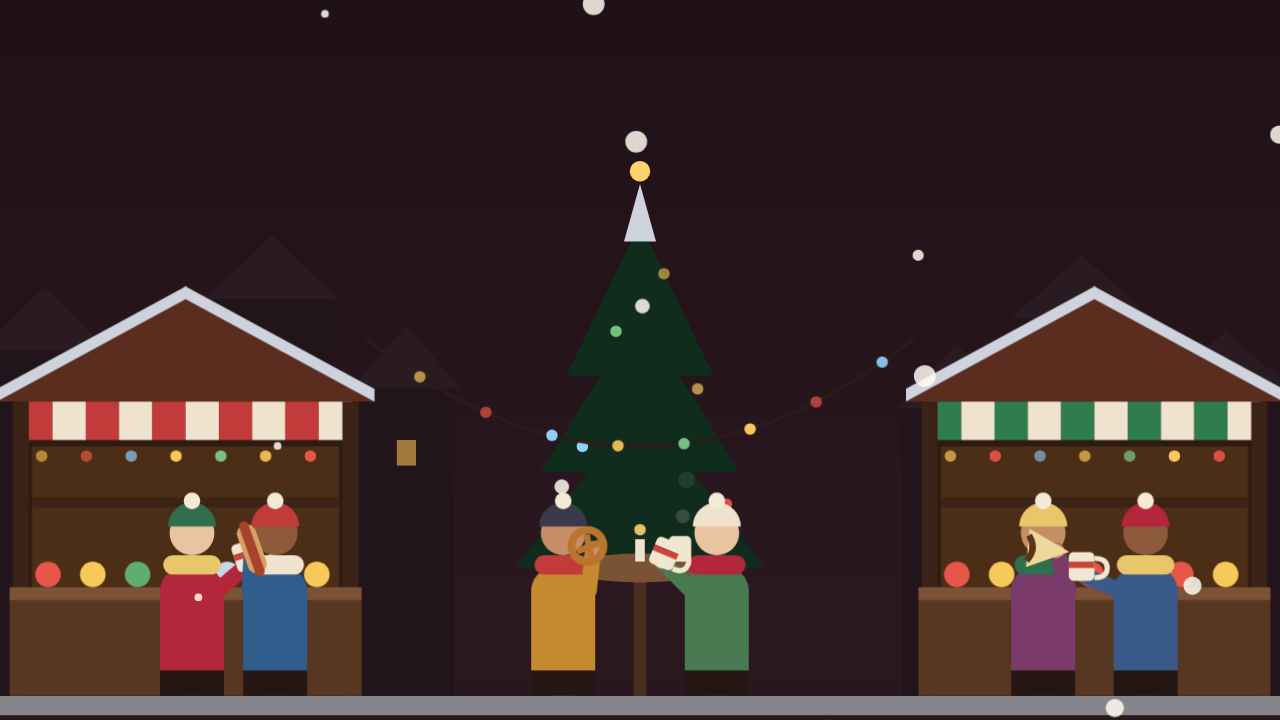
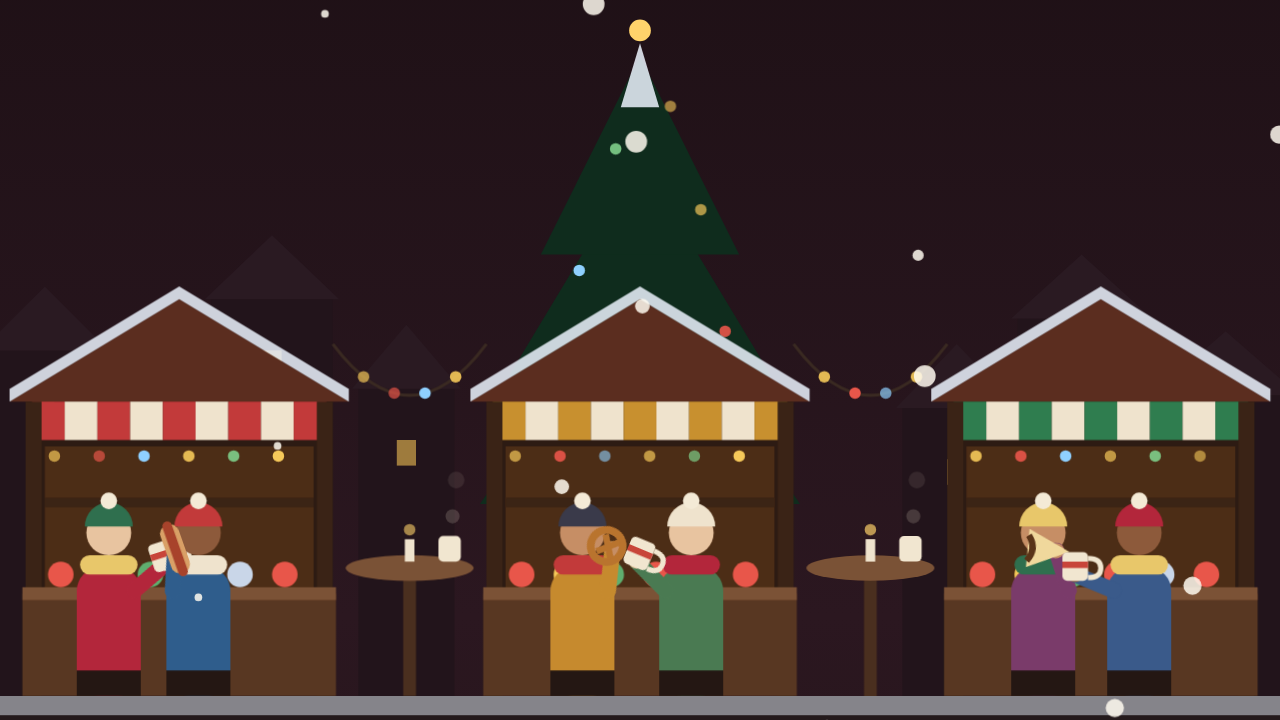
christmas-market-theme 0.2.0: three stalls, with tables between them and the tree behind the middle one
Claude-Session: https://claude.ai/code/session_019US2gsjfkmf3Eo2ufavub8

diff --git a/plugins/christmas-market-theme/hooks/register.tsx b/plugins/christmas-market-theme/hooks/register.tsx
@@ -22,7 +22,7 @@ const { theme, problems } = makeColors({
   only: 'dark',
 })
 
-// The scene is drawn on a tall 400 x 800 picture. A wide window shows only its middle band (about y 290 to 510),
+// Three stalls, with a standing table between each pair and a tree behind the middle one. The scene is drawn on a tall 400 x 800 picture. A wide window shows only its middle band (about y 290 to 510),
 // so the market stands on a ground line at y 505 and rises into that band; a phone shows all of it.
 const G = 505
 
@@ -106,7 +106,7 @@ const table = (x: number): string => {
 
   return [
     `<rect x="${x - 2}" y="${G - 40}" width="4" height="40" fill="#4a2f1f"/>`,
-    `<ellipse cx="${x}" cy="${G - 40}" rx="23" ry="4.5" fill="#7a5236"/>`,
+    `<ellipse cx="${x}" cy="${G - 40}" rx="20" ry="4" fill="#7a5236"/>`,
     `<rect x="${x - 1.5}" y="${G - 49}" width="3" height="7" fill="#efe3cd"/>`,
     flame,
     `<rect x="${x + 9}" y="${G - 50}" width="7" height="8" rx="1.5" fill="#f1e6d0"/>`,
@@ -139,44 +139,41 @@ const TOWN = [
   })
   .join('')
 
-// A tall tree behind the standing table, with lights.
+// A tall tree behind the middle stall, so its top and star show above the stall's roof.
 const TREE_X = 200
 const TREE = (() => {
   const tier = (base: number, width: number, height: number): string =>
     `<path d="M${TREE_X - width / 2} ${G - base} L${TREE_X} ${G - base - height} L${TREE_X + width / 2} ${G - base} Z" fill="#0f2c1d"/>`
   const lights = [
-    [-0.2, 0.28],
-    [0.18, 0.4],
-    [-0.12, 0.52],
-    [0.12, 0.64],
-    [-0.05, 0.76],
-    [0.05, 0.88],
+    [-0.16, 0.5],
+    [0.14, 0.6],
+    [-0.1, 0.7],
+    [0.1, 0.8],
+    [-0.04, 0.9],
+    [0.05, 0.97],
   ]
-    .map(([dx, dy], i) => bulbAt(TREE_X + (dx ?? 0) * 150, G - (dy ?? 0) * 150, BULBS[i % BULBS.length] ?? '#f6c95a'))
+    .map(([dx, dy], i) => bulbAt(TREE_X + (dx ?? 0) * 190, G - (dy ?? 0) * 190, BULBS[i % BULBS.length] ?? '#f6c95a'))
     .join('')
 
   return [
-    tier(40, 78, 52),
-    tier(70, 62, 50),
-    tier(100, 46, 48),
-    `<path d="M${TREE_X - 5} ${G - 142} L${TREE_X} ${G - 160} L${TREE_X + 5} ${G - 142} Z" fill="#e6edf7" opacity=".88"/>`,
-    `<circle cx="${TREE_X}" cy="${G - 164}" r="3.2" fill="#ffd36b"/>`,
+    tier(60, 100, 74),
+    tier(100, 82, 68),
+    tier(138, 62, 62),
+    `<path d="M${TREE_X - 6} ${G - 184} L${TREE_X} ${G - 204} L${TREE_X + 6} ${G - 184} Z" fill="#e6edf7" opacity=".88"/>`,
+    `<circle cx="${TREE_X}" cy="${G - 208}" r="3.4" fill="#ffd36b"/>`,
     lights,
   ].join('')
 })()
 
-// A string of lights between the two stalls, through the tree.
-const GARLAND = (() => {
-  const x0 = 114
-  const y0 = G - 112
-  const x1 = 286
-  const y1 = G - 112
-  const dip = 34
+// A string of lights between the roofs of two neighbouring stalls.
+const garland = (x0: number, x1: number): string => {
+  const y = G - 110
+  const dip = 16
   const point = (t: number): [number, number] => [
     (1 - t) * (1 - t) * x0 + 2 * (1 - t) * t * ((x0 + x1) / 2) + t * t * x1,
-    (1 - t) * (1 - t) * y0 + 2 * (1 - t) * t * (y0 + dip * 2) + t * t * y1,
+    (1 - t) * (1 - t) * y + 2 * (1 - t) * t * (y + dip * 2) + t * t * y,
   ]
-  const bulbs = [0.1, 0.22, 0.34, 0.46, 0.58, 0.7, 0.82, 0.94]
+  const bulbs = [0.2, 0.4, 0.6, 0.8]
     .map((t, i) => {
       const [bx, by] = point(t)
 
@@ -184,8 +181,8 @@ const GARLAND = (() => {
     })
     .join('')
 
-  return `<path d="M${x0} ${y0} Q${(x0 + x1) / 2} ${y0 + dip * 2} ${x1} ${y1}" stroke="#2c1d17" stroke-width="1" fill="none"/>${bulbs}`
-})()
+  return `<path d="M${x0} ${y} Q${(x0 + x1) / 2} ${y + dip * 2} ${x1} ${y}" stroke="#3a2a22" stroke-width="1" fill="none"/>${bulbs}`
+}
 
 const FLAKES = Array.from({ length: 40 }, (_, i) => {
   const x = (i * 83 + 17) % 400
@@ -218,16 +215,19 @@ const SCENE = [
   '<rect width="400" height="800" fill="url(#sky)"/>',
   TOWN,
   TREE,
-  stall(6, 104, '#c23a3a'),
-  stall(290, 104, '#2f7d4f'),
-  GARLAND,
-  table(TREE_X),
-  person(60, 1, '#b3263b', '#2f6f4e', '#e8c76a', '#e8c4a0', 'mug', 1),
-  person(86, -1, '#2f5d8c', '#c23a3a', '#efe3cd', '#8d5a3b', 'sausage', 2),
-  person(TREE_X - 24, 1, '#c68a2e', '#3a3a4a', '#c23a3a', '#c68e65', 'pretzel', 3),
-  person(TREE_X + 24, -1, '#4a7a52', '#efe3cd', '#b3263b', '#e8c4a0', 'mug', 4),
+  stall(10, 92, '#c23a3a'),
+  stall(154, 92, '#c8902f'),
+  stall(298, 92, '#2f7d4f'),
+  garland(104, 152),
+  garland(248, 296),
+  table(128),
+  table(272),
+  person(34, 1, '#b3263b', '#2f6f4e', '#e8c76a', '#e8c4a0', 'mug', 1),
+  person(62, -1, '#2f5d8c', '#c23a3a', '#efe3cd', '#8d5a3b', 'sausage', 2),
+  person(182, 1, '#c68a2e', '#3a3a4a', '#c23a3a', '#c68e65', 'pretzel', 3),
+  person(216, -1, '#4a7a52', '#efe3cd', '#b3263b', '#e8c4a0', 'mug', 4),
   person(326, 1, '#7a3b6a', '#e8c76a', '#2f6f4e', '#c68e65', 'crepe', 5),
-  person(358, -1, '#3a5a8a', '#b3263b', '#e8c76a', '#8d5a3b', 'mug', 6),
+  person(356, -1, '#3a5a8a', '#b3263b', '#e8c76a', '#8d5a3b', 'mug', 6),
   `<rect x="0" y="${G}" width="400" height="295" fill="#241a1c"/>`,
   `<rect x="0" y="${G}" width="400" height="6" fill="#e6edf7" opacity=".5"/>`,
   FLAKES,

diff --git a/README.es.md b/README.es.md
@@ -45,7 +45,7 @@ Mods bonitas para Claude Code: cambian cómo se ve y qué muestra. Un aspecto na
 |---|---|
 | `christmas-theme` | Verde pino profundo con texto crema cálido, acentos granate y dorado, una nevada lenta, y Santa con su trineo lleno de regalos envueltos y un reno cruzando el cielo una vez cada 70 segundos. Oscuro. |
 | `christmas-town-theme` | Otro aspecto navideño, con un pueblo: una noche azul medianoche con casas con tejados nevados, chimeneas de ladrillo y sus ventanas encendidas, una iglesia con campanario, pinos con luces de colores, una luna, humo de chimeneas que se eleva despacio y una nevada lenta. Oscuro. Instálalo en lugar de `christmas-theme`, no a la vez. |
-| `christmas-market-theme` | Un mercadillo de Navidad de noche: puestos de madera con tejados nevados y toldos a rayas, guirnaldas de luces de colores, un abeto alto iluminado, una mesa alta con una vela y seis personas con abrigos de invierno comiendo y bebiendo (un salchichón en pan, un pretzel, un crepe, tazas de algo caliente). Los brazos suben despacio hacia la boca y sale vapor de las tazas. Oscuro. Instálalo en lugar de los otros temas navideños, no a la vez. |
+| `christmas-market-theme` | Un mercadillo de Navidad de noche: tres puestos de madera (rojo, mostaza y verde) con tejados nevados y toldos a rayas, guirnaldas de luces de colores entre ellos, un abeto alto iluminado detrás del central, dos mesas altas con una vela y una taza humeante, y seis personas con abrigos de invierno comiendo y bebiendo (un salchichón en pan, un pretzel, un crepe, tazas de algo caliente). Los brazos suben despacio hacia la boca y sale vapor de las tazas. Oscuro. Instálalo en lugar de los otros temas navideños, no a la vez. |
 | `christmas-countdown` | Muestra "🎄 N days to Christmas" en la línea de estado, y "🎄 Merry Christmas!" el mismo día. Sigue siendo correcto si dejas una sesión abierta pasada la medianoche. |
 
 ### Gatitos

diff --git a/README.md b/README.md
@@ -45,7 +45,7 @@ Pretty mods for Claude Code: changes to how it looks and what it shows. A Christ
 |---|---|
 | `christmas-theme` | Deep pine green with warm cream text, cranberry accents and gold, a slow snowfall, and Santa with his sleigh full of wrapped presents and a reindeer crossing the sky once every 70 seconds. Dark. |
 | `christmas-town-theme` | Another Christmas look, with a town: a midnight-blue night with snow-roofed houses with brick chimneys and their lit windows, a church with a steeple, pine trees with coloured lights, a moon, drifting chimney smoke and slow snowfall. Dark. Install it instead of `christmas-theme`, not with it. |
-| `christmas-market-theme` | A Christmas market at night: wooden stalls with snowy roofs and striped awnings, strings of coloured lights, a tall lit tree, a standing table with a candle, and six people in winter coats eating and drinking (a sausage in a bun, a pretzel, a crepe, mugs of something hot). Their arms lift slowly to their mouths and steam rises from the mugs. Dark. Install it instead of the other Christmas themes, not with them. |
+| `christmas-market-theme` | A Christmas market at night: three wooden stalls (red, mustard and green) with snowy roofs and striped awnings, strings of coloured lights between them, a tall lit tree behind the middle one, two standing tables with a candle and a steaming mug, and six people in winter coats eating and drinking (a sausage in a bun, a pretzel, a crepe, mugs of something hot). Their arms lift slowly to their mouths and steam rises from the mugs. Dark. Install it instead of the other Christmas themes, not with them. |
 | `christmas-countdown` | Shows "🎄 N days to Christmas" in the status line, and "🎄 Merry Christmas!" on the day. It stays correct if a session is left open past midnight. |
 
 ### Kitty
